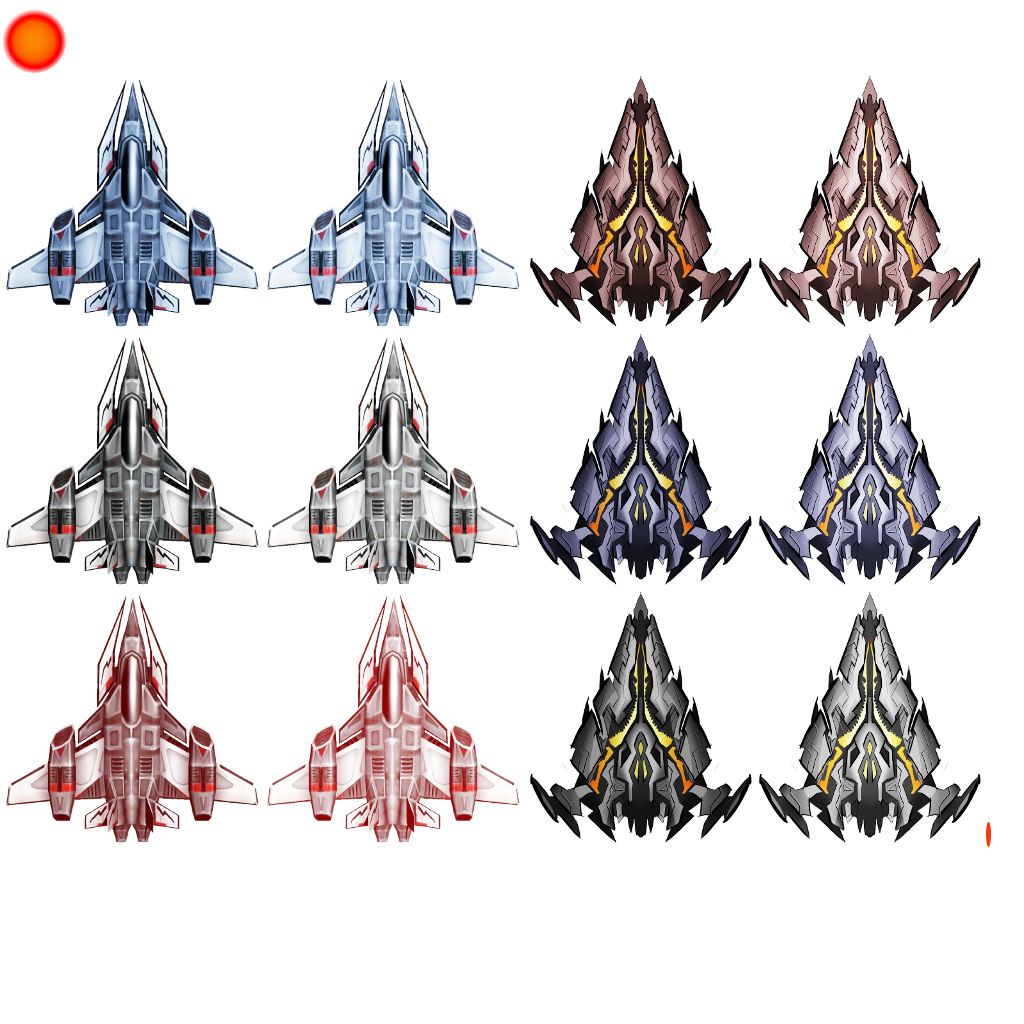
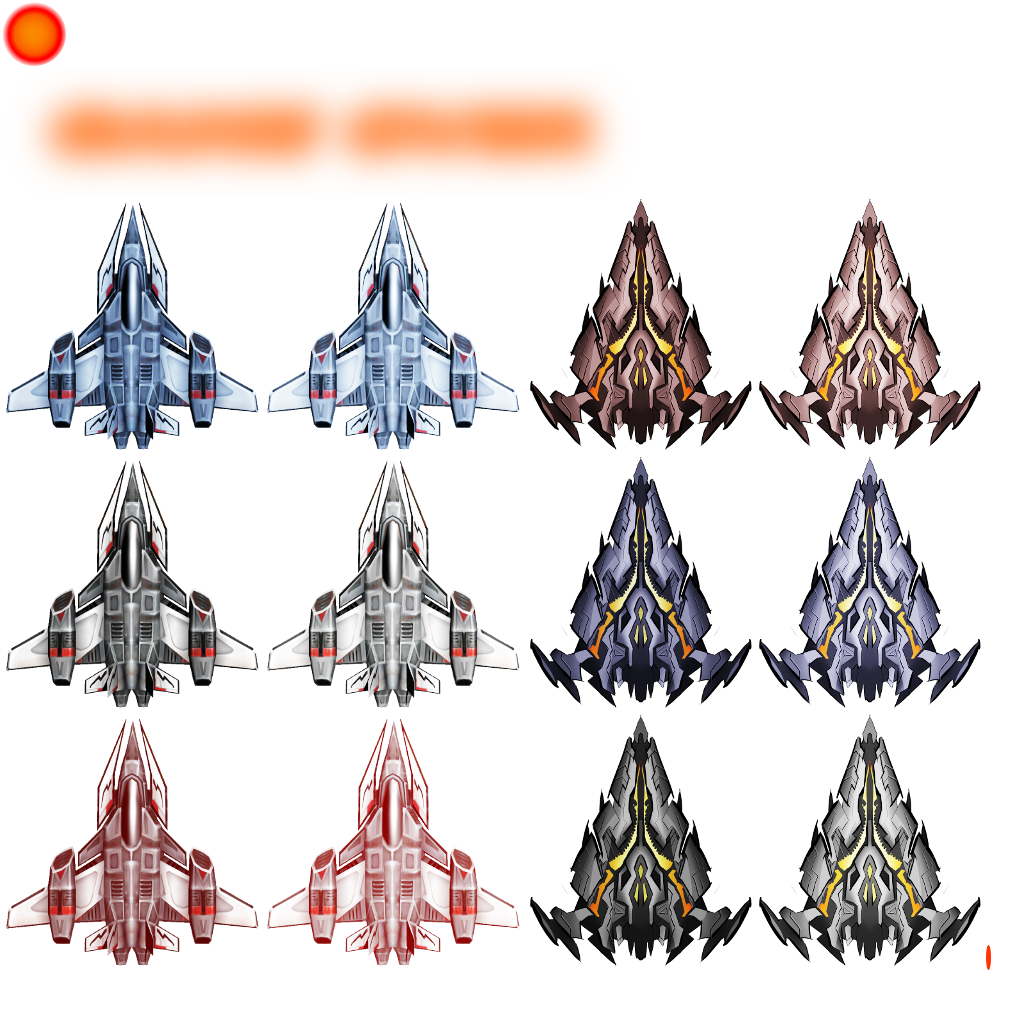
Added game over button

diff --git a/core/src/ru/codesteps/screens/GameScreen.java b/core/src/ru/codesteps/screens/GameScreen.java
@@ -11,6 +11,7 @@ import com.badlogic.gdx.math.Vector2;
 import java.util.List;
 
 import ru.codesteps.BattleSpaceGame;
+import ru.codesteps.base.ActionListener;
 import ru.codesteps.base.BaseRectangle;
 import ru.codesteps.base.BaseScreen;
 import ru.codesteps.pools.BulletPool;
@@ -19,6 +20,7 @@ import ru.codesteps.pools.ExplosionPool;
 import ru.codesteps.sprites.Background;
 import ru.codesteps.sprites.Bullet;
 import ru.codesteps.sprites.Enemy;
+import ru.codesteps.sprites.GameOverButton;
 import ru.codesteps.sprites.MainShip;
 import ru.codesteps.sprites.Star;
 import ru.codesteps.utils.EnemiesEmiter;
@@ -34,6 +36,8 @@ public class GameScreen extends BaseScreen {
     private Star[] stars;
 
     private MainShip ship;
+
+    private GameOverButton gameOverBtn;
 
     private ExplosionPool explosionPool;
     private BulletPool bulletPool;
@@ -74,6 +78,13 @@ public class GameScreen extends BaseScreen {
 
         enemyPool = new EnemyPool(bulletPool, explosionPool, worldBounds, bulletSound);
         enemiesEmiter = new EnemiesEmiter(enemyPool, worldBounds, gameAtlas);
+
+        gameOverBtn = new GameOverButton(gameAtlas, new ActionListener() {
+            @Override
+            public void actionPerformed(Object src) {
+                game.setMenuScreen();
+            }
+        });
     }
 
     @Override
@@ -96,6 +107,9 @@ public class GameScreen extends BaseScreen {
         bulletPool.updateActiveObjects(delta);
         enemyPool.updateActiveObjects(delta);
         explosionPool.updateActiveObjects(delta);
+        if (ship.isDestroyed()) {
+            gameOverBtn.update(delta);
+        }
     }
 
     private void draw() {
@@ -115,6 +129,10 @@ public class GameScreen extends BaseScreen {
         bulletPool.drawActiveObjects(batch);
         enemyPool.drawActiveObjects(batch);
         explosionPool.drawActiveObjects(batch);
+
+        if (ship.isDestroyed()) {
+            gameOverBtn.draw(batch);
+        }
 
         batch.end();
     }
@@ -184,6 +202,7 @@ public class GameScreen extends BaseScreen {
             s.resize(worldBounds);
         }
         ship.resize(worldBounds);
+        gameOverBtn.resize(worldBounds);
     }
 
     @Override
@@ -202,6 +221,22 @@ public class GameScreen extends BaseScreen {
     public boolean touchDragged(Vector2 touch, int pointer) {
         ship.touchDragged(touch, pointer);
         return super.touchDragged(touch, pointer);
+    }
+
+    @Override
+    public boolean touchUp(Vector2 touch, int pointer) {
+        if (ship.isDestroyed()) {
+        gameOverBtn.touchUp(touch, pointer);
+        }
+        return super.touchUp(touch, pointer);
+    }
+
+    @Override
+    public boolean touchDown(Vector2 touch, int pointer) {
+        if (ship.isDestroyed()) {
+            gameOverBtn.touchDown(touch, pointer);
+        }
+            return super.touchDown(touch, pointer);
     }
 
 }

diff --git a/core/src/ru/codesteps/sprites/GameOverButton.java b/core/src/ru/codesteps/sprites/GameOverButton.java
@@ -1,0 +1,36 @@
+package ru.codesteps.sprites;
+
+import com.badlogic.gdx.graphics.g2d.TextureAtlas;
+import com.badlogic.gdx.math.Vector2;
+import ru.codesteps.base.ActionListener;
+import ru.codesteps.base.BaseButton;
+import ru.codesteps.base.BaseRectangle;
+
+public class GameOverButton extends BaseButton {
+
+    private static final float GAME_OVER_POS_Y = 0.5f;
+
+    private final Vector2 v = new Vector2(0, -0.3f);
+
+    public GameOverButton(TextureAtlas atlas, ActionListener actionListener) {
+        super(atlas.findRegion("game-over"), actionListener);
+    }
+
+    @Override
+    public void resize(BaseRectangle worldBounds) {
+        setHeightProportion(0.15f);
+        setBottom(worldBounds.getTop());
+        clickArea.pos = worldBounds.pos;
+        clickArea.width = worldBounds.width;
+        clickArea.height = worldBounds.height;
+    }
+
+    @Override
+    public void update(float delta) {
+        if (pos.y > GAME_OVER_POS_Y) {
+            super.update(delta);
+            pos.mulAdd(v, delta);
+        }
+    }
+
+}

diff --git a/core/src/ru/codesteps/BattleSpaceGame.java b/core/src/ru/codesteps/BattleSpaceGame.java
@@ -1,28 +1,23 @@
 package ru.codesteps;
 
 import com.badlogic.gdx.Game;
-import com.badlogic.gdx.Screen;
 import ru.codesteps.screens.GameScreen;
 
 import ru.codesteps.screens.MenuScreen;
 
 public class BattleSpaceGame extends Game {
-    private Screen menuScreen;
-    private Screen gameScreen;
-    
+
     public void setMenuScreen() {
-        setScreen(menuScreen);
+        setScreen(new MenuScreen(this));
     }
     
     public void setGameScreen() {
-        setScreen(gameScreen);
+        setScreen(new GameScreen(this));
     }
 
     @Override
     public void create() {
-        menuScreen = new MenuScreen(this);
-        gameScreen = new GameScreen(this);
-        setScreen(menuScreen);
+        setMenuScreen();
     }
 
 }

diff --git a/core/src/ru/codesteps/sprites/PlayButton.java b/core/src/ru/codesteps/sprites/PlayButton.java
@@ -1,7 +1,6 @@
 package ru.codesteps.sprites;
 
 import com.badlogic.gdx.graphics.g2d.TextureAtlas;
-import com.badlogic.gdx.math.Vector2;
 import ru.codesteps.base.ActionListener;
 import ru.codesteps.base.BaseButton;
 import ru.codesteps.base.BaseRectangle;

diff --git a/core/src/ru/codesteps/base/BaseScreen.java b/core/src/ru/codesteps/base/BaseScreen.java
@@ -87,7 +87,7 @@ public abstract class BaseScreen implements Screen, InputProcessor {
 
     @Override
     public void hide() {
-
+        dispose();
     }
 
     @Override
